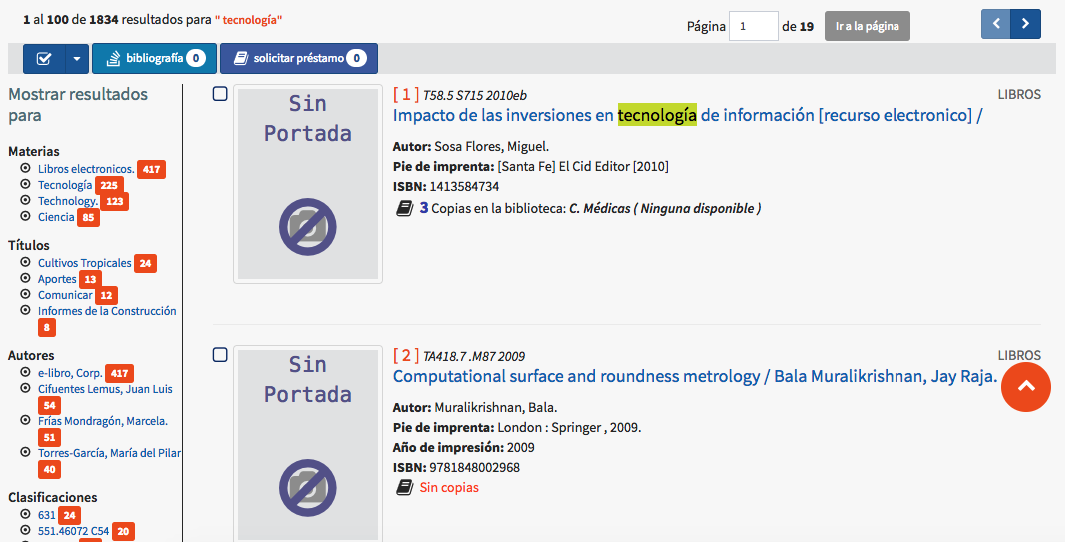
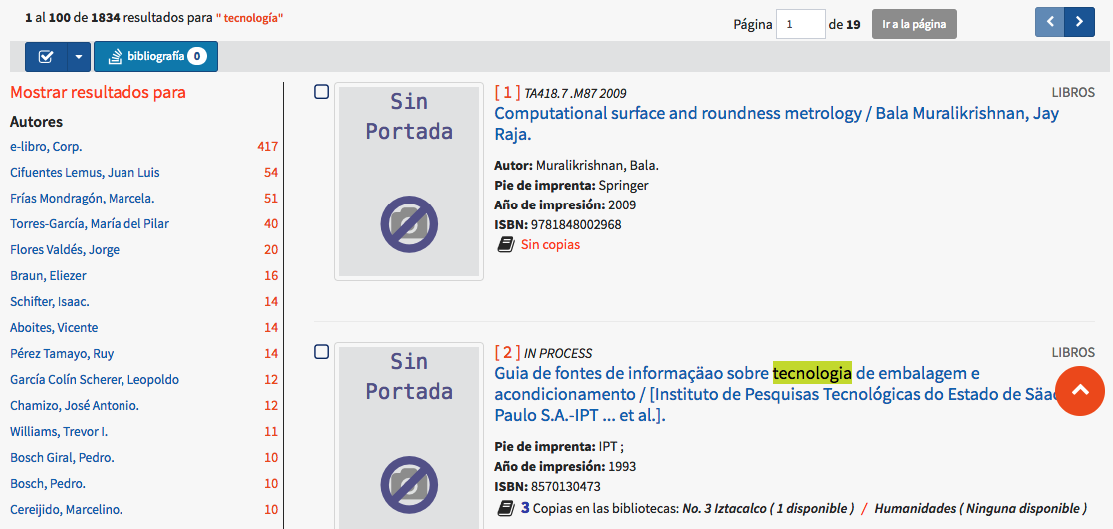
Actualización de contenidos (05-03-2018)

diff --git a/docs/ayuda-contextual/Obtencion-de-resultados-de-busqueda/index.md b/docs/ayuda-contextual/Obtencion-de-resultados-de-busqueda/index.md
@@ -53,11 +53,13 @@ Es importante señalar que el número de registros seleccionados por este métod
 
 ![](Facetado.png)
 
-Si se pincha sobre uno de los términos destacados, el sistema pasa a una nueva pantalla donde indica el **número de referencias totales** encontradas en la base de datos para dicho término. Al continuar el proceso y pinchar de nuevo sobre el elemento, se ejecuta una nueva búsqueda únicamente para recuperar los registros señalados.
+Si se pincha sobre uno de los términos destacados, el sistema ejecuta una **nueva búsqueda para recuperar únicamente los registros señalados**. Siguiendo con el proceso, en el sumario de resultados se visualiza el filtro aplicado, así como la posibilidad de eliminarlo pinchando sobre el icono de _equis_.
 
 ![](Facetado2.png)
 
 ![](Facetado3.png)
+
+Además, **es posible utilizar más de un filtro a la vez**, si se desea restringir aún más los resultados de la búsqueda realizada.
 
 ![](Facetado4.png)
 
